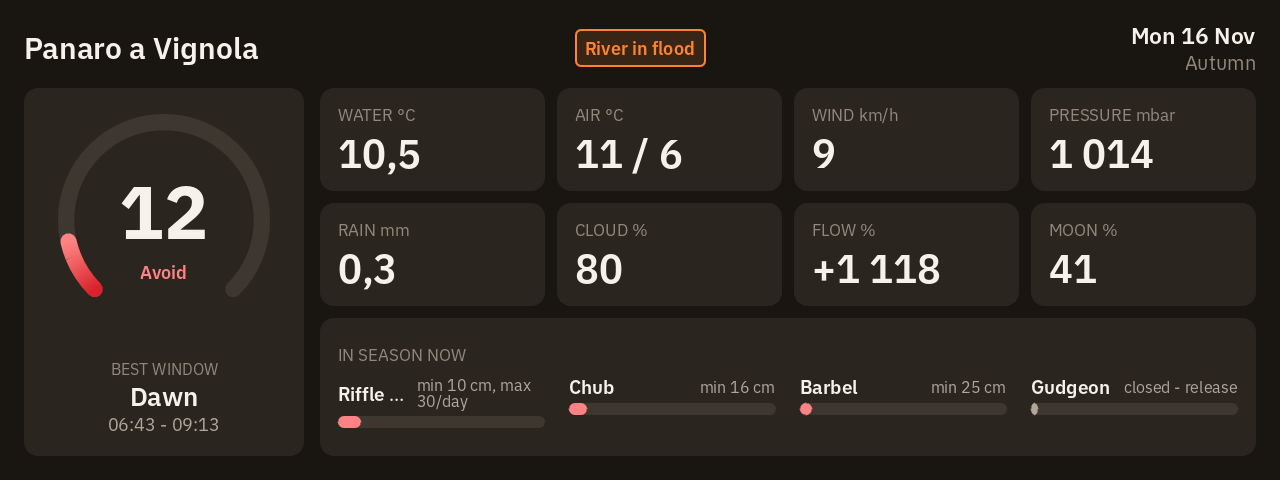
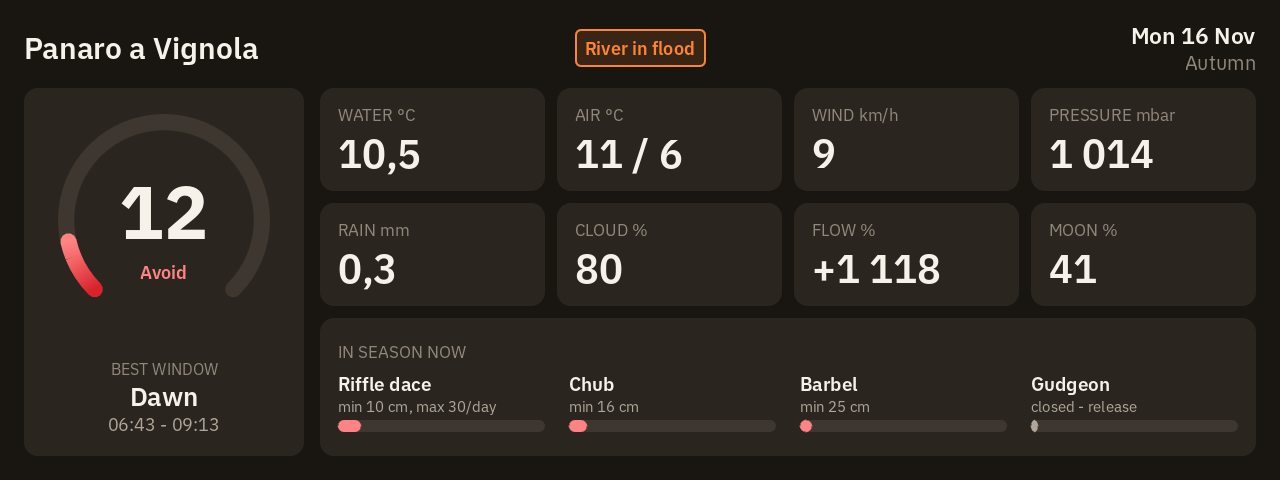
Fishing Spot 0.4.2: species cells keep one line per row
A long rule ("min 10 cm, max 30/day") sat beside the species name, wrapped
to two lines and pushed its cell out of line with the others. Each cell now
has three single-line rows: name, rule, bar. The rule row stays when empty,
so all cells have the same height. The 638 x 480 face gets a slightly
smaller gauge and 8 px gaps to make room.

diff --git a/widgets/fishing-spot/src/render/large.rs b/widgets/fishing-spot/src/render/large.rs
@@ -28,8 +28,8 @@ use crate::view::View;
 
 use bmc_wasm_sdk::*;
 
-const GAUGE_SIZE: f32 = 150.0;
-const GAUGE_NUMBER: u32 = 54;
+const GAUGE_SIZE: f32 = 136.0;
+const GAUGE_NUMBER: u32 = 50;
 
 fn index_panel(view: &View) -> Node {
     let evaluation = &view.evaluation;
@@ -41,14 +41,14 @@ fn index_panel(view: &View) -> Node {
         props!(
             background: PANEL,
             border_radius: RADIUS,
-            padding: 14.0,
+            padding: 12.0,
             gap: 16.0,
             cross_align: CrossAlign::Center
         ),
         [
             common::gauge(evaluation.score, evaluation.label(), GAUGE_SIZE, GAUGE_NUMBER),
             col(
-                props!(gap: 10.0, flex: 1.0),
+                props!(gap: 8.0, flex: 1.0),
                 [
                     common::caption("BEST WINDOW", 14),
                     common::value(window_label, 24, TEXT),
@@ -72,10 +72,10 @@ fn readings(view: &View) -> Node {
     let degrees = display::temperature_unit();
     let unit = |label: &str, unit: &str| fmt!("{} {}", label, unit);
     col(
-        props!(gap: 10.0),
+        props!(gap: 8.0),
         [
             row(
-                props!(gap: 10.0),
+                props!(gap: 8.0),
                 [
                     common::tile(
                         common::water_caption(view),
@@ -98,7 +98,7 @@ fn readings(view: &View) -> Node {
                 ],
             ),
             row(
-                props!(gap: 10.0),
+                props!(gap: 8.0),
                 [
                     common::tile(
                         unit("PRESSURE", "mbar"),
@@ -128,7 +128,7 @@ fn species(view: &View) -> Node {
         .map(|s| common::species_cell(s, 17, 9.0))
         .collect();
     col(
-        props!(gap: 9.0, flex: 1.0, justify_content: Justify::End),
+        props!(gap: 8.0, flex: 1.0, justify_content: Justify::End),
         [
             common::caption("IN SEASON NOW", 14),
             row(props!(gap: 16.0), cells),
@@ -139,7 +139,7 @@ fn species(view: &View) -> Node {
 #[must_use]
 pub fn large(view: &View) -> Node {
     col(
-        props!(background: BG, padding: 16.0, gap: 12.0),
+        props!(background: BG, padding: 16.0, gap: 8.0),
         [
             common::header(
                 view.spot.name,

diff --git a/widgets/fishing-spot/src/render/common.rs b/widgets/fishing-spot/src/render/common.rs
@@ -296,18 +296,26 @@ pub fn species_cell(entry: &SpeciesScore, name_size: u32, bar_height: f32) -> No
     } else {
         display::species_rule(entry.entry)
     };
+    // Name, rule and bar each on a line of their own, every line one line high.
+    // Side by side, a long rule wrapped to two lines and pushed its cell out of
+    // line with the others.
+    let note_size = name_size.saturating_sub(4).max(12);
+    #[expect(clippy::cast_precision_loss, reason = "a font size in pixels")]
+    let note_height = note_size as f32;
     col(
-        props!(gap: 7.0, flex: 1.0),
+        props!(gap: 6.0, flex: 1.0),
         [
-            row(
-                props!(cross_align: CrossAlign::Center, gap: 8.0),
-                [
-                    text(
-                        species.name.to_owned(),
-                        style!(size: name_size, weight: FontWeight::SEMIBOLD, color: TEXT, line_height: 1.0, flex: 1.0, text_overflow: TextOverflow::Ellipsis),
-                    ),
-                    body(note, name_size.saturating_sub(3).max(12), MUTED),
-                ],
+            text(
+                species.name.to_owned(),
+                style!(size: name_size, weight: FontWeight::SEMIBOLD, color: TEXT, line_height: 1.0, text_overflow: TextOverflow::Ellipsis),
+            ),
+            // The rule keeps its line when it is empty, so all cells stay the same height.
+            col(
+                props!(height: note_height),
+                [text(
+                    note,
+                    style!(size: note_size, weight: FontWeight::REGULAR, color: MUTED, line_height: 1.0, text_overflow: TextOverflow::Ellipsis),
+                )],
             ),
             bar(fraction, bar_height, fill),
         ],

diff --git a/widgets/fishing-spot/README.md b/widgets/fishing-spot/README.md
@@ -106,6 +106,7 @@ cargo build -p bmc-widget-codegen --release
 
 - Palette: warm, not neutral. `render/common.rs` sets its own greys with a little more red than blue (`#191612` ground, `#2A251F` panels, `#F6F2EA` text). Colour is only on the gauge, the species bars and the warnings.
 - Tile readings are numbers only. The unit is in the caption (`WATER °C`, `PRESSURE mbar`). With the unit in the value, `1 013 mbar` did not fit a tile, the tile became two lines high, and the grid broke. A test in `display.rs` keeps every reading to 9 characters or less. A value that is too long gets an ellipsis.
+- A species cell has three lines: the name, the rule (minimum size, bag limit or closed season) and the bar. Each line is one line high with an ellipsis, and the rule line stays when it is empty, so all cells have the same height. With the name and the rule side by side, a long rule wrapped to two lines and pushed its cell out of line.
 - The header wraps the title in a `col`, so that the title and the date get the same flex share and the warnings stay in the centre. A flexed text node keeps its natural width as its basis; a flexed container starts from zero.
 - The full face shows not more than 2 warnings, so that the spot name stays visible. Bonuses (such as "Recommended season here") change the index but do not show.
 - Not shown, on purpose: a strip of the next days, the 72-hour rain (it is in the clarity model), the wind direction.
